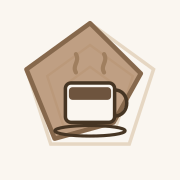
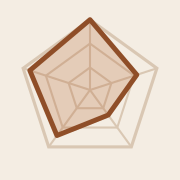
feat: pentagon mark as the brand asset
The mark is a five-axis pentagon with a copper shape inside — it is
the 'o' in the Radaroma wordmark, the concierge header glyph, and the
unscored-card placeholder. generate-icons.ts now renders it in the
new palette (paper, hairline rings, copper polygon) and also writes
app/favicon.ico as PNG-in-ICO. Starter Next/Vercel SVGs deleted;
manifest and theme colors moved to the new paper tone.

diff --git a/scripts/generate-icons.ts b/scripts/generate-icons.ts
@@ -1,5 +1,5 @@
-// Generates the PWA app icons from the brand SVG (radar chart + coffee cup
-// in the coffee palette, using the same radar geometry as the site).
+// Generates the PWA app icons from the brand mark — a five-axis radar
+// pentagon with a copper shape inside, on the paper palette.
 // Run: npx tsx scripts/generate-icons.ts
 import { writeFileSync } from "node:fs"
 import sharp from "sharp"
@@ -8,15 +8,12 @@ import { axisAngle, pointAt, toSvgPoints } from "../lib/radar"
 const SIZE = 512
 const CENTER = SIZE / 2
 
-const COFFEE = {
-  bg: "#FAF6F0",
-  ring: "#E6D7C3",
-  polygon: "#B08968",
-  polygonStroke: "#86684C",
-  cupStroke: "#463523",
-  cupFill: "#FAF6F0",
-  coffeeFill: "#6E543E",
-  steam: "#A07F5F",
+const INK = {
+  bg: "#F4EDE3", // paper
+  ring: "#D9C7B3", // hairline
+  spoke: "#D9C7B3",
+  polygon: "#B5683A", // copper
+  polygonStroke: "#8F4E28", // copper-700
 }
 
 const ring = (radius: number): string =>
@@ -24,28 +21,28 @@ const ring = (radius: number): string =>
     Array.from({ length: 5 }, (_, i) => pointAt(radius, axisAngle(i, 5), CENTER, CENTER)),
   )
 
-// Radar polygon with a realistic café-ish profile
+const spokes = Array.from({ length: 5 }, (_, i) => {
+  const p = pointAt(200, axisAngle(i, 5), CENTER, CENTER)
+  return `<line x1="${CENTER}" y1="${CENTER}" x2="${p.x}" y2="${p.y}" stroke="${INK.spoke}" stroke-width="6"/>`
+}).join("\n    ")
+
+// A deliberately asymmetric café shape — the mark's copper blob.
 const radarPolygon = toSvgPoints(
-  [5, 4, 3, 4.5, 5].map((v, i) =>
-    pointAt((v / 5) * 190, axisAngle(i, 5), CENTER, CENTER),
+  [5, 3.5, 2.2, 4, 4.5].map((v, i) =>
+    pointAt((v / 5) * 200, axisAngle(i, 5), CENTER, CENTER),
   ),
 )
 
 function brandSvg(scale: number): string {
   const transform = `transform="translate(${CENTER} ${CENTER}) scale(${scale}) translate(${-CENTER} ${-CENTER})"`
   return `<svg xmlns="http://www.w3.org/2000/svg" viewBox="0 0 ${SIZE} ${SIZE}">
-  <rect width="${SIZE}" height="${SIZE}" fill="${COFFEE.bg}"/>
+  <rect width="${SIZE}" height="${SIZE}" fill="${INK.bg}"/>
   <g ${transform}>
-    ${[190, 128, 66]
-      .map((r) => `<polygon points="${ring(r)}" fill="none" stroke="${COFFEE.ring}" stroke-width="${r === 190 ? 10 : 7}"/>`)
+    ${spokes}
+    ${[200, 132, 64]
+      .map((r) => `<polygon points="${ring(r)}" fill="none" stroke="${INK.ring}" stroke-width="${r === 200 ? 9 : 6}"/>`)
       .join("\n    ")}
-    <polygon points="${radarPolygon}" fill="${COFFEE.polygon}" fill-opacity="0.8" stroke="${COFFEE.polygonStroke}" stroke-width="13" stroke-linejoin="round"/>
-    <path d="M 216 206 C 204 186 228 176 216 154" fill="none" stroke="${COFFEE.steam}" stroke-width="12" stroke-linecap="round"/>
-    <path d="M 296 206 C 284 186 308 176 296 154" fill="none" stroke="${COFFEE.steam}" stroke-width="12" stroke-linecap="round"/>
-    <path d="M 326 256 C 372 256 372 330 326 330" fill="none" stroke="${COFFEE.cupStroke}" stroke-width="10" stroke-linecap="round"/>
-    <rect x="186" y="236" width="140" height="112" rx="16" fill="${COFFEE.cupFill}" stroke="${COFFEE.cupStroke}" stroke-width="10"/>
-    <rect x="196" y="248" width="120" height="36" rx="10" fill="${COFFEE.coffeeFill}"/>
-    <ellipse cx="256" cy="372" rx="100" ry="15" fill="none" stroke="${COFFEE.cupStroke}" stroke-width="9"/>
+    <polygon points="${radarPolygon}" fill="${INK.polygon}" fill-opacity="0.25" stroke="${INK.polygonStroke}" stroke-width="14" stroke-linejoin="round"/>
   </g>
 </svg>`
 }
@@ -53,6 +50,24 @@ function brandSvg(scale: number): string {
 async function render(svg: string, size: number, file: string): Promise<void> {
   await sharp(Buffer.from(svg)).resize(size, size).png().toFile(file)
   console.log(`wrote ${file} (${size}x${size})`)
+}
+
+// Minimal .ico: PNG payload inside an ICO container (valid since Vista).
+function pngToIco(png: Buffer, size: number): Buffer {
+  const header = Buffer.alloc(6)
+  header.writeUInt16LE(0, 0) // reserved
+  header.writeUInt16LE(1, 2) // type: icon
+  header.writeUInt16LE(1, 4) // count
+  const entry = Buffer.alloc(16)
+  entry.writeUInt8(size, 0) // width (256 → 0)
+  entry.writeUInt8(size, 1) // height
+  entry.writeUInt8(0, 2) // palette
+  entry.writeUInt8(0, 3) // reserved
+  entry.writeUInt16LE(1, 4) // color planes
+  entry.writeUInt16LE(32, 6) // bpp
+  entry.writeUInt32LE(png.length, 8) // payload size
+  entry.writeUInt32LE(22, 12) // payload offset
+  return Buffer.concat([header, entry, png])
 }
 
 async function main() {
@@ -64,6 +79,9 @@ async function main() {
   await render(regular, 180, "public/apple-touch-icon.png")
   writeFileSync("public/icon.svg", brandSvg(1))
   console.log("wrote public/icon.svg (source)")
+  const faviconPng = await sharp(Buffer.from(regular)).resize(32, 32).png().toBuffer()
+  writeFileSync("app/favicon.ico", pngToIco(faviconPng, 32))
+  console.log("wrote app/favicon.ico (32x32 PNG-in-ICO)")
 }
 
 main().catch((err) => {

diff --git a/app/layout.tsx b/app/layout.tsx
@@ -2,6 +2,7 @@ import type { Metadata, Viewport } from "next"
 import type { ReactNode } from "react"
 import { EB_Garamond, Source_Sans_3 } from "next/font/google"
 import Link from "next/link"
+import PentagonMark from "@/components/PentagonMark"
 import PwaRegister from "@/components/PwaRegister"
 import "./globals.css"
 
@@ -49,7 +50,7 @@ export const metadata: Metadata = {
 }
 
 export const viewport: Viewport = {
-  themeColor: "#FAF6F0",
+  themeColor: "#F4EDE3",
   width: "device-width",
   initialScale: 1,
 }
@@ -74,7 +75,9 @@ export default function RootLayout({ children }: { children: ReactNode }) {
         <header className="border-b border-coffee-200">
           <div className="mx-auto flex w-full max-w-5xl items-center justify-between px-4 py-3">
             <Link href="/" className="flex items-baseline gap-1.5">
-              <span className="font-display text-lg font-medium tracking-tight text-coffee-900">Radaroma</span>
+              <span className="font-display text-lg font-medium tracking-tight text-coffee-900">
+                Radar<PentagonMark className="inline-block h-[0.82em] w-[0.82em] text-copper-600" />ma
+              </span>
               <span className="text-xs uppercase tracking-[0.18em] text-coffee-400">Attica</span>
             </Link>
             <nav className="flex items-center gap-1">

diff --git a/components/PentagonMark.tsx b/components/PentagonMark.tsx
@@ -1,5 +1,6 @@
-// The Radaroma mark: a five-axis pentagon — one vertex per score axis.
-// Used wherever a brand glyph or an unscored-café placeholder is needed.
+// The Radaroma mark: a five-axis pentagon with a filled shape inside —
+// one vertex per score axis. Used for the wordmark's "o", the concierge
+// header, and as the unscored-café placeholder.
 export default function PentagonMark({ className = "" }: { className?: string }) {
   return (
     <svg viewBox="0 0 24 24" aria-hidden="true" className={className}>
@@ -9,6 +10,11 @@ export default function PentagonMark({ className = "" }: { className?: string })
         stroke="currentColor"
         strokeWidth="1.5"
         strokeLinejoin="round"
+      />
+      <polygon
+        points="12,6.8 17.4,10.7 15.3,17.2 8.7,17.2 6.6,10.7"
+        fill="currentColor"
+        opacity="0.85"
       />
     </svg>
   )

diff --git a/app/manifest.ts b/app/manifest.ts
@@ -2,13 +2,13 @@ import type { MetadataRoute } from "next"
 
 export default function manifest(): MetadataRoute.Manifest {
   return {
-    name: "Radaroma — Attica cafés, ranked your way",
+    name: "Radaroma — Attica cafés, as a shape",
     short_name: "Radaroma",
-    description: "Curated Attica cafés with radar charts, weighted re-ranking, and an AI concierge.",
+    description: "Attica cafés, as a shape. Radar charts, weighted re-ranking, and an AI concierge.",
     start_url: "/",
     display: "standalone",
-    background_color: "#FAF6F0",
-    theme_color: "#FAF6F0",
+    background_color: "#F4EDE3",
+    theme_color: "#F4EDE3",
     icons: [
       { src: "/icon-192.png", sizes: "192x192", type: "image/png" },
       { src: "/icon-512.png", sizes: "512x512", type: "image/png" },
